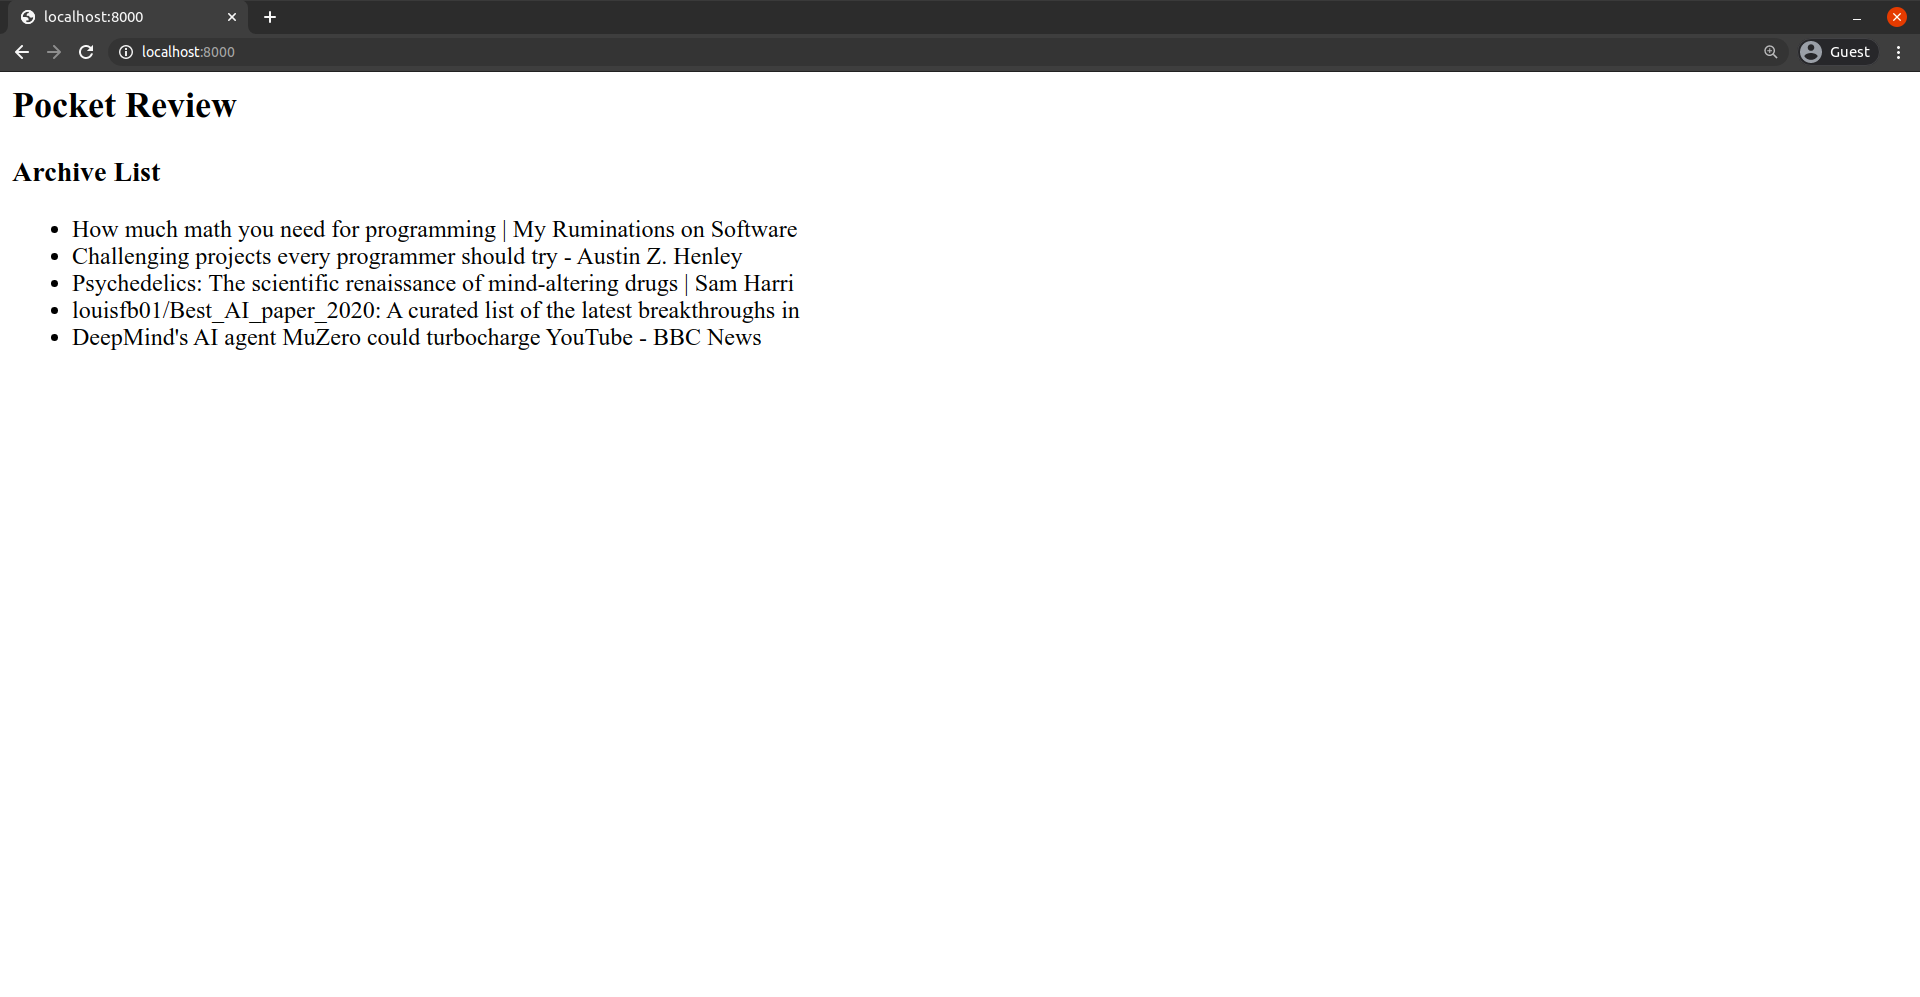
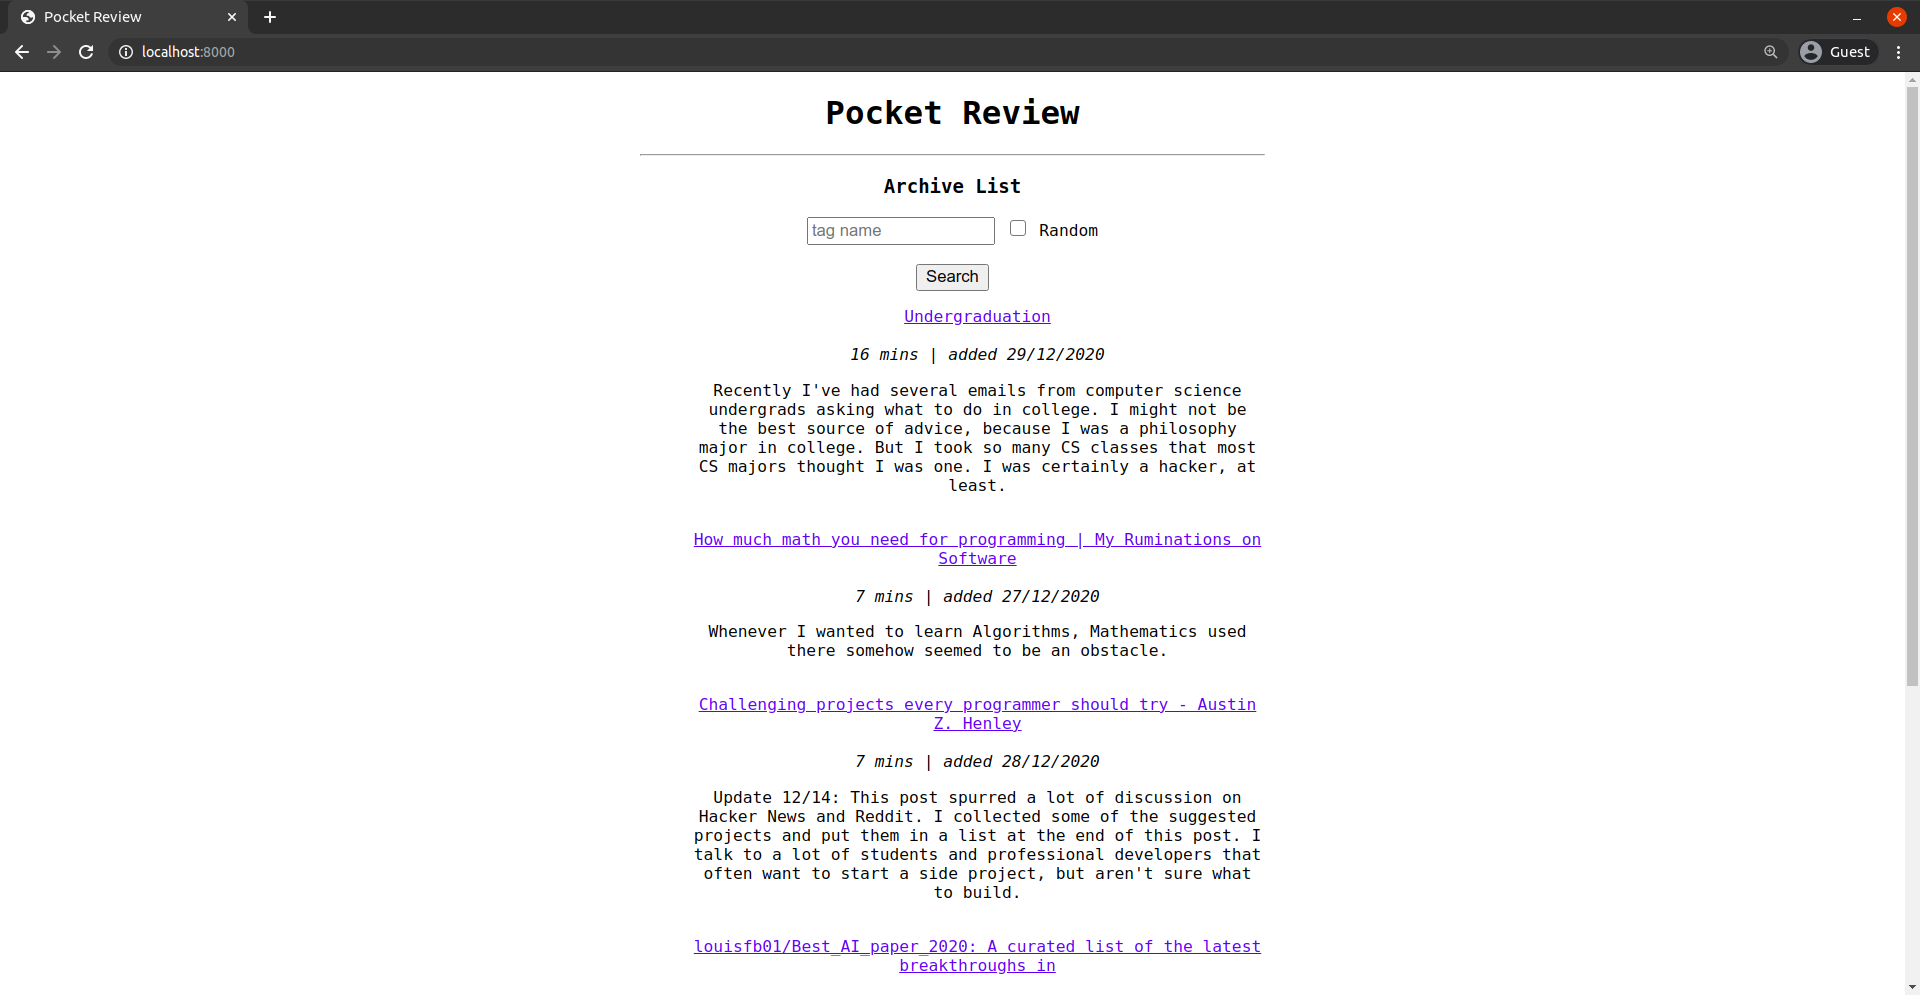
added tag filtering, random articles

diff --git a/app/templates/index.html b/app/templates/index.html
@@ -1,11 +1,59 @@
-<h2>Pocket Review</h2>
+<!DOCTYPE html>
+<html lang="en">
+<head>
+  <meta charset="UTF-8">
+  <meta name="viewport" content="width=device-width, initial-scale=1.0">
+  <title>Pocket Review</title>
+  <style>
+    body {
+      font-family: monospace;
+      text-align: center;
+      max-width: 500px;
+      margin: auto;
+    }
+    li {
+      list-style: none;
+    }
+  </style>
+</head>
+<body>
+  
+  <h1>Pocket Review</h1>
+  <hr />
 
-<h3>Archive List</h3>
+  <h3>Archive List</h3>
 
-<ul>
-  {% for i in articles %}
+  <form action="/" method="post">
+    {% csrf_token  %}
 
-  <li>{{i}}</li>
+    <input id="tag_name" type="text" name="tag_name" placeholder="tag name" value="{{ tag_name }}">
 
-  {% endfor %}
-</ul>
+    <input type="checkbox" id="random" name="random" value="random">
+    <label for="random">Random</label>
+
+    <br /><br />
+    <input type="submit" value="Search">
+    
+  </form>
+
+  <ul>
+    {% for i in articles %}
+
+    <li>
+      <a href="{{ i.given_url }}" target=”_blank”>
+        {{ i.given_title }}
+      </a>
+      <br /><br />
+      <i>{{ i.time_to_read }} mins | added {{ i.time_added }}</i>
+      <p>
+        {{ i.excerpt }}
+      </p>
+    </li>
+    <br />
+
+    {% endfor %}
+  </ul>
+  <hr />
+
+</body>
+</html>

diff --git a/app/views.py b/app/views.py
@@ -1,18 +1,65 @@
-from django.shortcuts import render
+from django.shortcuts import render, redirect
+import os
+from random import choice
 import requests
-
+import datetime 
+from functools import lru_cache
 
 def index(request):
 
-    ACCESS_TOKEN = ''
-    CONSUMER_KEY = ''
+    # TODO paginate or allow count selection
+
+    print(request.POST)
+
+    tag_name = request.POST.get('tag_name', '')
+
+    if request.POST.get('random'):
+      return redirect ('random', tag_name=tag_name)
+
+    ACCESS_TOKEN = os.environ.get('ACCESS_TOKEN')
+    CONSUMER_KEY = os.environ.get('CONSUMER_KEY')
     COUNT = 5
 
-    response = requests.get(f'https://getpocket.com/v3/get?consumer_key={CONSUMER_KEY}&access_token={ACCESS_TOKEN}&state=archive&count={COUNT}')
+    archive_link = f'https://getpocket.com/v3/get?consumer_key={CONSUMER_KEY}&access_token={ACCESS_TOKEN}&state=archive&count={COUNT}&tag={tag_name}'
+
+    response = requests.get(archive_link)
     article_list = response.json()['list']
     
     articles = []
-    for article in article_list.values():
-      articles.append(article['given_title'])
+    if article_list == []:
+      return render(request, 'index.html', {'articles': []})
 
-    return render(request, 'index.html', {'articles': articles})
+    for article in article_list.values():
+      articles.append({
+        'item_id': article['item_id'],
+        'given_title': article['given_title'],
+        'given_url': article['given_url'],
+        'time_added': datetime.datetime.fromtimestamp(int(article['time_added'])).strftime('%d/%m/%Y'),
+        'excerpt': article['excerpt'],
+        'time_to_read': article['time_to_read']
+      })
+
+    return render(request, 'index.html', {
+      'articles': articles,
+      'tag_name': tag_name
+    })
+
+@lru_cache
+def random(request, tag_name=''):
+
+    # TODO add caching
+    # TODO refresh list
+
+    ACCESS_TOKEN = os.environ.get('ACCESS_TOKEN')
+    CONSUMER_KEY = os.environ.get('CONSUMER_KEY')
+
+    archive_link = f'https://getpocket.com/v3/get?consumer_key={CONSUMER_KEY}&access_token={ACCESS_TOKEN}&state=archive&tag={tag_name}'
+
+    response = requests.get(archive_link)
+    article_list = response.json()['list']
+    
+    try:
+      article = choice(list(article_list.values()))
+      return redirect(article['given_url'], permanent=True)
+    except AttributeError:
+      return redirect('/')

diff --git a/pocket_review/urls.py b/pocket_review/urls.py
@@ -5,5 +5,6 @@ from app import views
 
 urlpatterns = [
     path('admin/', admin.site.urls),
-    path('', views.index, name='index')
+    path('', views.index, name='index'),
+    path('random/<str:tag_name>/', views.random, name='random')
 ]

diff --git a/README.md b/README.md
@@ -4,11 +4,12 @@ A tool to take a look at [Pocket](https://app.getpocket.com/) archive, categoriz
 
 ## Feature List
 
-- Authentication with Pocket
 - Basic list of archive items - DONE!
-- List with filters, sorting, tags, search
+- List with tag filters, article metadata - DONE!
+- Random article, filtered by tag - DONE!
+- Caching list of articles
+- Authentication with Pocket
 - Categorize via similarities (title, site, text)
-- Random article from selected category
 
 ## Tech Stack
 
